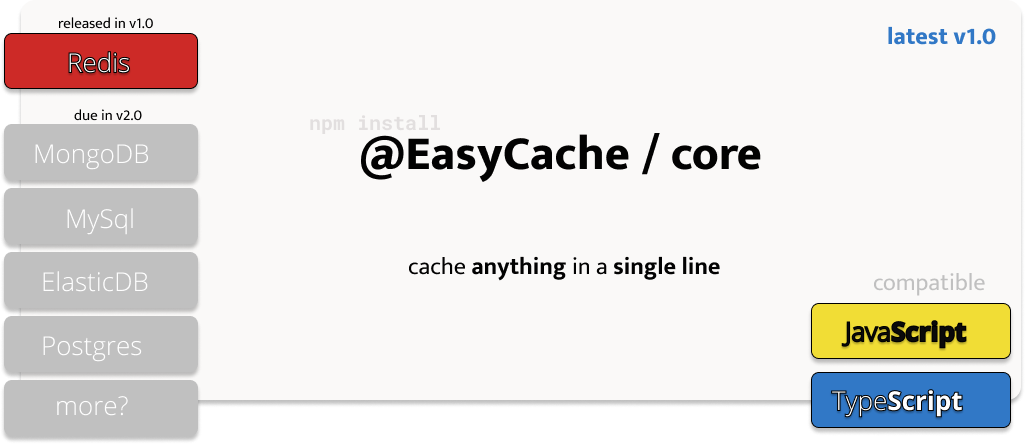
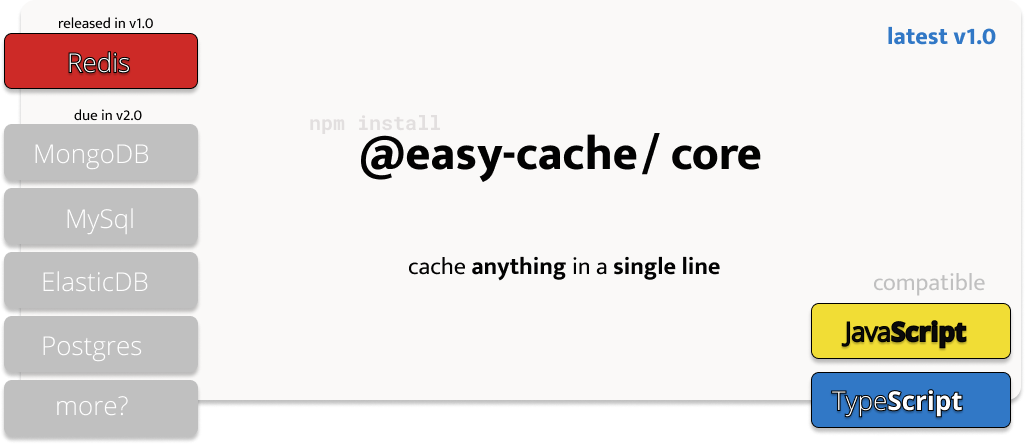
docs(core): usage and demo

Changed region(s): [[0.4683, 0.2928, 0.6244, 0.3806], [0.3746, 0.2928, 0.4371, 0.3806]]

diff --git a/src/app.ts b/src/app.ts
@@ -1,11 +1,48 @@
-import Package from './index'
+import EasyCache from './services/core'
 
-const pkg = new Package({
-  defaultTTL: 5,
-  redisHost: '127.0.0.1',
-  redisPort: 6379,
-  redisPassword: '',
-  debug: false,
-})
+async function worker() {
+  const EasyCacheInstance = new EasyCache({
+    defaultTTL: 10,
+    redisHost: '127.0.0.1',
+    redisPassword: '',
+    redisPort: 6379,
+    debug: false,
+    disable: false,
+  })
 
-console.log(pkg)
+  @EasyCacheInstance.Cache({debug:true})
+  function something(age: number) {
+    console.log(`[something] : fx started`)
+    return new Promise((resolve) => {
+      setTimeout(() => {
+        console.log(`[something] : fx ended after 2 seconds`)
+        resolve(age)
+      }, 2 * 1000)
+    })
+  }
+
+  const cachedSomething = EasyCacheInstance.provider(
+    { debug: true, expireAfter: 10 },
+    something,
+  )
+
+  const result1 = await something(10)
+  console.log(`[worker] : result1: ${result1}`)
+
+  const result2 = await something(20)
+  console.log(`[worker] : result2: ${result2}`)
+
+  const result3 = await cachedSomething(30)
+  console.log(`[cached worker] : result3: ${result3}`)
+
+  const result4 = await cachedSomething(40)
+  console.log(`[cached worker] : result4: ${result4}`)
+
+  const cachedResult3 = await cachedSomething(30)
+  console.log(`[cached worker] : cachedResult3: ${cachedResult3}`)
+
+  const cachedResult4 = await cachedSomething(40)
+  console.log(`[cached worker] : cachedResult4: ${cachedResult4}`)
+}
+
+worker()

diff --git a/README.md b/README.md
@@ -3,43 +3,117 @@
 [![Ensure Package Builds](https://github.com/YashKumarVerma/easy-cache/actions/workflows/build.yml/badge.svg)](https://github.com/YashKumarVerma/easy-cache/actions/workflows/build.yml)
 [![Tests](https://github.com/YashKumarVerma/easy-cache/actions/workflows/test.yml/badge.svg)](https://github.com/YashKumarVerma/easy-cache/actions/workflows/test.yml)
 
-
 # EasyCache
 
-> A modern NodeJS package to cache any function with just a **single line of code** - @EasyCache
+> A modern NodeJS package to cache any function with just a **single line of code** - @easy-cache
 
 ## 🤔 What is EasyCache v1.0?
 
-EasyCache is a NodeJS module available on NPM to cache any function with just a single line of code. It helps you to boost your application in the cleanest way possible. Allows setting global as well as local cache options.
+@easy-cache is a NodeJS module available on NPM to cache any function with just a single line of code. It helps you to boost your application in the cleanest way possible. Allows setting global as well as local cache options. Supports TypeScript as well as JavaScript.
 
-Primary features of @EasyCache are:
+Primary features of @easy-cache are:
 
 - Global configuration options to configure entire application at one place.
 - Local configuration option to configure any function as required, overriding the global configs.
 - Custom TTL (Time to Live) to customize cache invalidation.
-- Built in support for Redis as cache server. (*Others coming in v2.0*)
+- Built in support for Redis as cache server. (_Others coming in v2.0_)
+- Support for javaScript and TypeScript in a single package.
+- Single line implementation even in JS where decorators do not exist.
 - brutally tested and production ready.
 
-
-
 # Usage
-The package is written in typescript and generates the type descriptions using the typescript compiler. It can be directly used in any nodejs based backend by importing the package.
+
+The package can be directly used in any nodejs (TypeScript / JavaScript) based backend.
+
+**Step 1**: Install the package
 
 ```
-npm install --save decorated-cache
+npm install --save @easy-cache/core
 
 # or
 
-yarn add decorated-cache
+yarn add @easy-cache/core
 ```
 
+> Note: In v1.0, the default cache engine i.e. `redis` is used, and therefore the `redis` package is also installed by default.
+
+**Step 2**: Initialize the cache system
+
+```javascript
+/** Initializing the cache system */
+import EasyCache from '@easy-cache/core'
+
+const cacheInstance = new EasyCache({
+  // TTL Value in seconds
+  defaultTTL: 10,
+
+  // redis connection details
+  redisHost: '127.0.0.1',
+  redisPassword: '',
+  redisPort: 6379,
+
+  // whether to show verbose logs
+  debug: false,
+
+  // completely disable the cache globally
+  disable: false,
+})
+
+/** the function that you want to cache **/
+function fullName(fistName, lastName) {
+  return `${firstName} ${lastName}`
+}
+
+/** To cache the function, just pass it into the provider with configs..
+ *
+ * Configurations can be passed into the provider to change the behavior.
+ * disable: to turn of cache for given funtion
+ * expireAfter: to set a custom expire time for given function
+ * debug: to show verbose logs for given function
+ */
+const cachedFullName = cacheInstance.provider({ debug: true }, fullName)
+```
+
+### Using with classes
+
+Since v1.0, EasyCache supports classes as well, using a unique method called decorators.
+Simply adding `@EasyCache.Cache({configs})` will cache the following function.
+
+**Example**:
+
+```ts
+class MyClass {
+  @EasyCacheInstance.Cache({ defaultTTL: 30 })
+  public static thisMethodWillBeCached() {
+    // some code
+    return true
+  }
+}
+```
+
+The above function would cache with a ttl of 30 seconds.
+
+# Tests
+
+Tests are a vital component of any software project. In @easy-cache,
+
+- the unit tests are written in TypeScript using Mocha and Chai.
+- the end to end tests are being written in JavaScript using Mocha and Chai.
+
+A detailed analysis about the above is [posted here](https://medium.com/@yk.verma2000/tdd-design-choices-src-or-dist-7261c7c81cb0).
 
 # Roadmap
 
 ### Version 1
-- @cache decorator to implement caching.
-- Support for redis as a provider for caching.
+
+- @cache decorator to implement caching for class methods.
+- provider to cache orphan functions (without decorators).
+- Support for javascript and typescript.
+- Redis as a default provider for caching.
+- Robust test suite.
 
 ### Version 2
-- Support for plugins to add any generic provider.
 
+- Support for plugins to add any generic provider.
+- Support for Postgres, Memcached, etc. as providers on rolling basis.
+- Plugins
